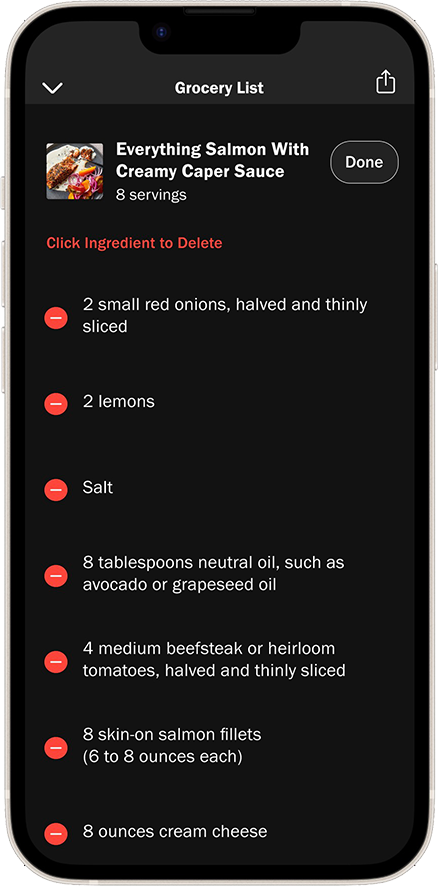
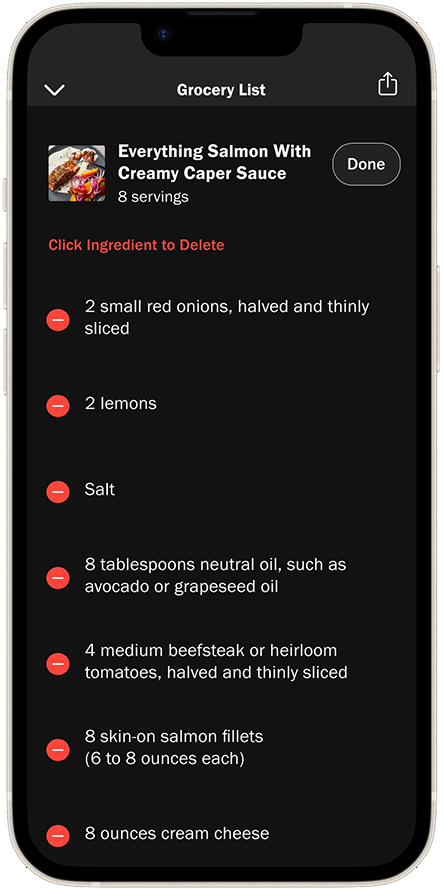
added alittle canvas to opener fotos

diff --git a/src/components/Nyt/OpenerNytMobile.js b/src/components/Nyt/OpenerNytMobile.js
@@ -1,7 +1,7 @@
 import '../ReusableComponents.css'
-import opener from '../../assets/nyt/home.png'
-import recipe from '../../assets/nyt/recipe_serve.png'
-import grocery from '../../assets/nyt/grocery_edit.png'
+import opener from '../../assets/nyt/home_sm.png'
+import recipe from '../../assets/nyt/recipe_serve_sm.png'
+import grocery from '../../assets/nyt/grocery_edit_sm.png'
 
 export const OpenerNytMobile = () => {
   return (

diff --git a/src/components/Nyt/OpenerNyt.js b/src/components/Nyt/OpenerNyt.js
@@ -1,7 +1,7 @@
 import '../ReusableOpener.css'
-import opener from '../../assets/nyt/home.png'
-import recipe from '../../assets/nyt/recipe_serve.png'
-import grocery from '../../assets/nyt/grocery_edit.png'
+import opener from '../../assets/nyt/home_sm.png'
+import recipe from '../../assets/nyt/recipe_serve_sm.png'
+import grocery from '../../assets/nyt/grocery_edit_sm.png'
 
 export const OpenerNyt = () => {
   return (

diff --git a/src/components/ReusableOpener.css b/src/components/ReusableOpener.css
@@ -2,13 +2,14 @@
   width: 95rem;
   margin: auto;
   margin-bottom: 9rem;
+
 }
-.OpenerContainer.nyt {}
 .Opener {
   display: flex;
   margin: auto;
   width: 75rem;
   justify-content: space-between;
+  overflow: visible
 }
 .Opener.fh {
   margin-top:3rem;
